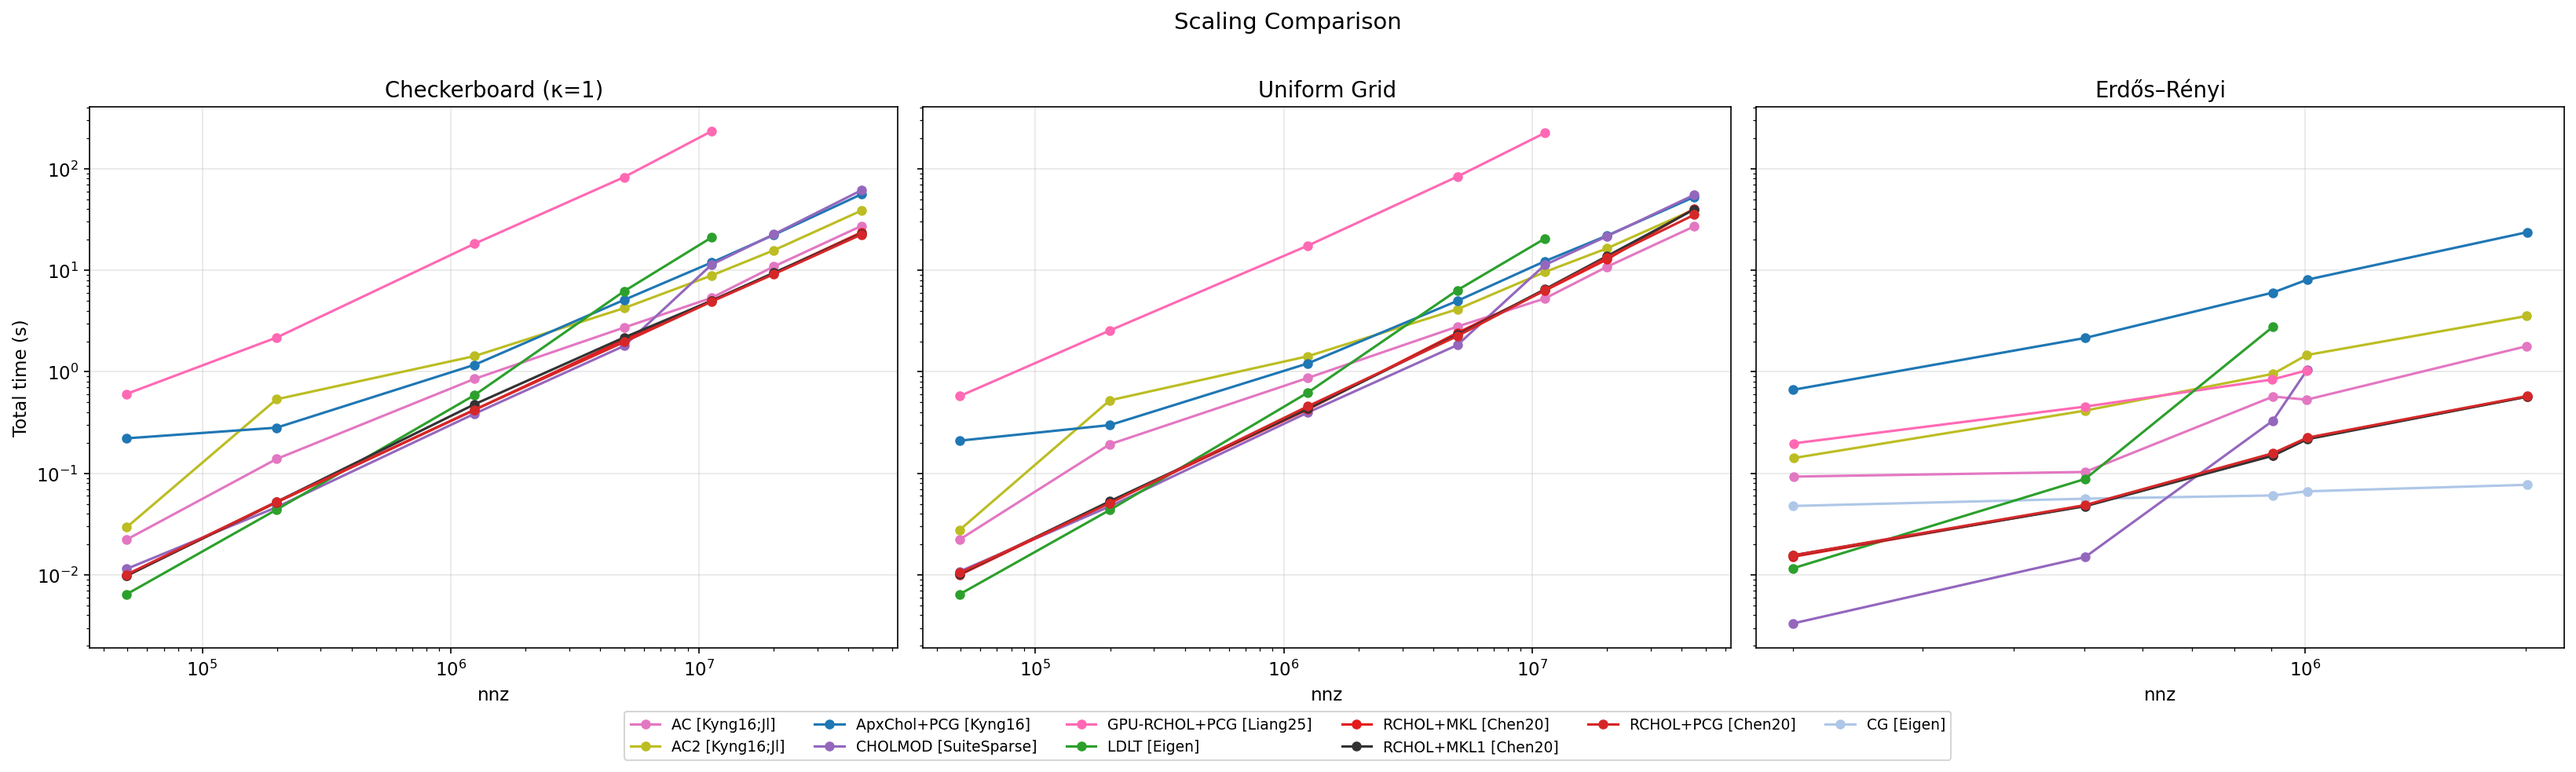
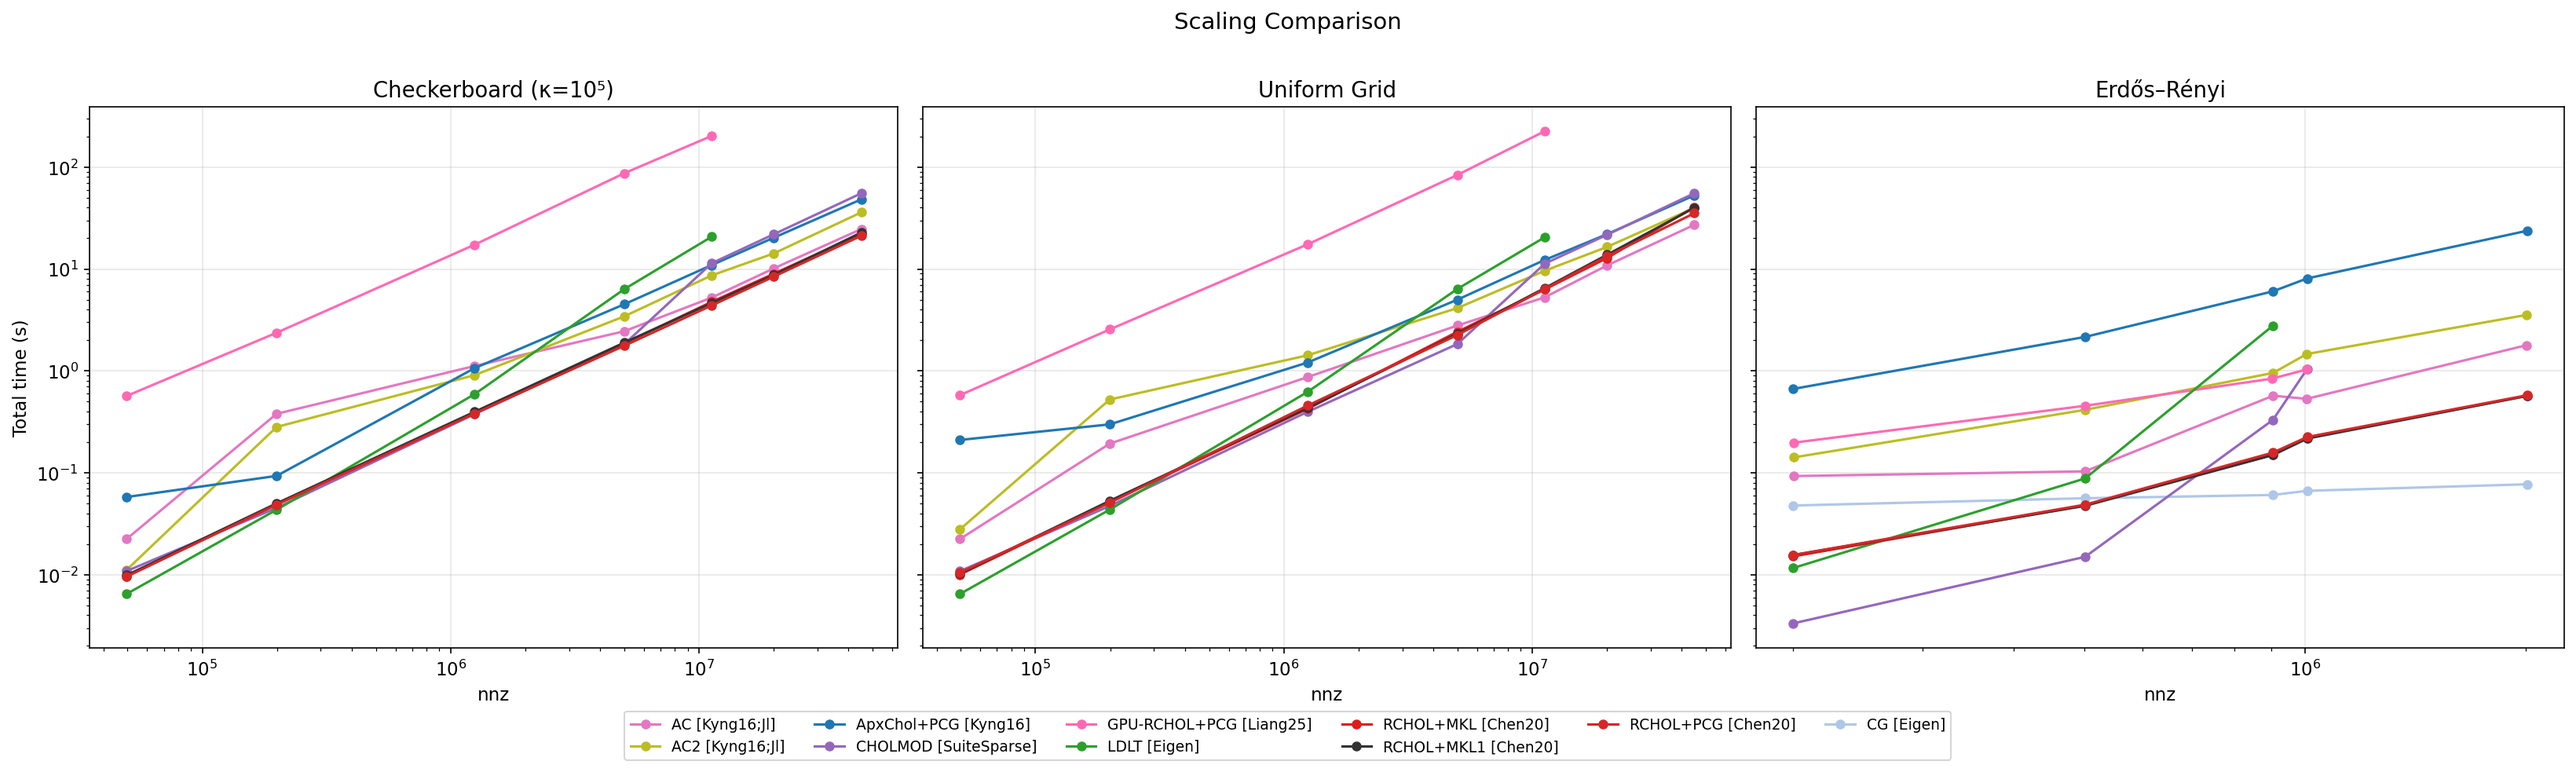
bench: replace checker κ=1 with grid/checker κ=10⁵ in plots & docs
- plot.py: bar_comparison, efficiency, residual now use grid data
  (checker κ=1 was identical to grid)
- plot.py: combined_scaling panel shows checker κ=10⁵ instead of κ=1
- README: add RCHOL+PCG, RCHOL+MKL1, AC to solver table
- README: update bench sets and solver lists
- README: fix all κ=1 references to κ=10⁵
- Regenerate all plots from merged 1121-row CSV

diff --git a/benchmarks/plot.py b/benchmarks/plot.py
@@ -97,10 +97,14 @@ def load_csv(paths):
     return df
 
 
-def _checker_k1_t4(df):
-    """Filter to checkerboard κ=1, tile=4 only (baseline kappa)."""
-    return df[df["graph"].str.contains("checker", na=False)
-              & df["graph"].str.match(r".*k1_t4$", na=False)].copy()
+def _grid(df):
+    """Filter to uniform grid graphs."""
+    return df[df["graph"].str.match(r"grid_\d+$", na=False)].copy()
+
+
+def _checker_k100000_t4(df):
+    """Filter to checkerboard κ=100000, tile=4."""
+    return df[df["graph"].str.match(r"checker_\d+_k100000_t4$", na=False)].copy()
 
 
 def _dedup_by_graph(df):
@@ -180,7 +184,7 @@ def _plot_bar_ax(ax, sub, title):
 
 
 def plot_bar_comparison(df, outdir):
-    sub = _checker_k1_t4(df)
+    sub = _grid(df)
     if sub.empty:
         return
     sub = sub[~sub["solver"].isin(BAR_EXCLUDE_SOLVERS)]
@@ -190,7 +194,7 @@ def plot_bar_comparison(df, outdir):
 
     fig, ax = plt.subplots(figsize=(11, max(4, len(sub) * 0.45)))
     _plot_bar_ax(ax, sub,
-                 f"Setup + Solve Breakdown \u2014 checker n={int(largest_n)}, \u03ba=1")
+                 f"Setup + Solve Breakdown \u2014 grid n={int(largest_n)}")
     ax.legend(["Setup", "Solve"], fontsize=9)
     save_fig(fig, outdir, "bar_comparison")
 
@@ -200,7 +204,7 @@ def plot_bar_comparison(df, outdir):
 # ══════════════════════════════════════════════════════
 
 def plot_residual(df, outdir):
-    sub = _checker_k1_t4(df)
+    sub = _grid(df)
     if sub.empty:
         return
     largest_n = sub["n"].max()
@@ -212,7 +216,7 @@ def plot_residual(df, outdir):
     colors = [solver_color(s) for s in sub["solver"]]
     ax.barh(sub["solver"], sub["rel_res"], color=colors)
     ax.set_xlabel("Relative residual ||Ax\u2212b||/||b||")
-    ax.set_title(f"Solution Accuracy \u2014 checker n={int(largest_n)}, \u03ba=1")
+    ax.set_title(f"Solution Accuracy \u2014 grid n={int(largest_n)}")
     ax.set_xscale("log")
     ax.axvline(1e-8, color="red", ls="--", alpha=0.5, label="tol=1e\u207b\u2078")
     ax.legend(fontsize=9)
@@ -224,7 +228,7 @@ def plot_residual(df, outdir):
 # ══════════════════════════════════════════════════════
 
 def plot_efficiency(df, outdir):
-    sub = _checker_k1_t4(df)
+    sub = _grid(df)
     # Exclude solvers that hit maxiter (non-convergence)
     sub = sub[~sub.apply(_hit_maxiter, axis=1)].copy()
     if sub.empty:
@@ -247,7 +251,7 @@ def plot_efficiency(df, outdir):
                          color=solver_color(solver), alpha=0.15)
     ax.set_xlabel("nnz")
     ax.set_ylabel("\u00b5s / nnz (median)")
-    ax.set_title("Efficiency \u2014 checker \u03ba=1 (median \u00b1 IQR)")
+    ax.set_title("Efficiency \u2014 grid (median \u00b1 IQR)")
     ax.set_xscale("log")
     ax.set_yscale("log")
     ax.legend(fontsize=8, ncol=2)
@@ -596,7 +600,7 @@ def plot_combined_scaling(df, outdir):
     # CG excluded from checker/grid (75% maxiter); kept in erdos (0% maxiter)
     no_cg = df[df["solver"] != "CG [Eigen]"]
     configs = [
-        (_checker_k1_t4(no_cg), "Checkerboard (\u03ba=1)"),
+        (_checker_k100000_t4(no_cg), "Checkerboard (\u03ba=10\u2075)"),
         (no_cg[no_cg["graph"].str.match(r"grid_\d+$", na=False)], "Uniform Grid"),
         (df[df["graph"].str.contains("erdos", na=False)], "Erd\u0151s\u2013R\u00e9nyi"),
     ]

diff --git a/benchmarks/README.md b/benchmarks/README.md
@@ -7,15 +7,18 @@ Comparative benchmarks for Laplacian/SDDM linear system solvers.
 | Solver | Type | Implementation | Source |
 |--------|------|----------------|--------|
 | **ApxChol+PCG [Kyng16]** | Approximate Cholesky preconditioner + PCG | Ours (C++) | `benchmarks/src/` |
+| **RCHOL+PCG [Chen20]** | Randomized Cholesky + PCG (Eigen) | [ut-padas/rchol](https://github.com/ut-padas/rchol) | FetchContent |
 | **RCHOL+MKL [Chen20]** | Randomized Cholesky + PCG (MKL sparse BLAS) | [ut-padas/rchol](https://github.com/ut-padas/rchol) + MKL | FetchContent |
+| **RCHOL+MKL1 [Chen20]** | RCHOL+MKL single-threaded | [ut-padas/rchol](https://github.com/ut-padas/rchol) + MKL | FetchContent |
 | **CG [Eigen]** | Conjugate gradient (diagonal precond.) | Eigen | — |
 | **LDLT [Eigen]** | Sparse direct LDL^T | Eigen | — |
 | **CHOLMOD [SuiteSparse]** | Supernodal sparse Cholesky (direct) | [SuiteSparse](https://people.engr.tamu.edu/davis/suitesparse.html) | System library |
 | **GPU-RCHOL+PCG [Liang25]** | GPU parallel RCHOL + PCG | [Tianyu-Liang/Parallel-Randomized-Cholesky](https://github.com/Tianyu-Liang/Parallel-Randomized-Cholesky) | FetchContent (CUDA) |
+| **AC [Kyng16;Jl]** | ApproxChol (Julia reference) | [Laplacians.jl](https://github.com/danspielman/Laplacians.jl) | `benchmarks/julia/` |
 | **AC2 [Kyng16;Jl]** | ApproxChol (Julia, augmented params) | [Laplacians.jl](https://github.com/danspielman/Laplacians.jl) | `benchmarks/julia/` |
 
 *Excluded*: AMG+CG [AMGCL] (broken on Laplacians), CG+ICC [Eigen] (hits iteration cap),
-pRCHOL+PCG (always worse than single-thread RCHOL), AC [Kyng16;Jl] (superseded by AC2).
+pRCHOL+PCG (always worse than single-thread RCHOL).
 
 ## Benchmark Protocol
 
@@ -23,10 +26,10 @@ Following [SDDM2023](https://arxiv.org/abs/2303.00709):
 
 - **Tolerance**: 1e-8 relative residual (‖Ax−b‖/‖b‖)
 - **Repetitions**: 3 runs, median taken
-- **Condition numbers**: κ ∈ {1, 100000}
+- **Condition numbers**: κ = 10⁵ (for checkerboard)
 - **Graph families**:
   - Grid Laplacians (uniform weights, up to 9M vertices)
-  - Checkerboard grids (κ=1, tile=4, up to 9M vertices)
+  - Checkerboard grids (κ=10⁵, tile=4, up to 9M vertices)
   - Erdős-Rényi random graphs (up to ~1M edges)
   - SDDM2023 suite: uniform grid, chimera, weighted chimera, Sachdeva star,
     anisotropic grid, weighted grid, checkered grid (parameter sweeps at nnz≈2M)
@@ -59,11 +62,11 @@ bash benchmarks/run.sh --quick --solver rchol_mkl,apxchol
 bash benchmarks/run.sh --bench erdos --append benchmarks/results/latest.csv
 
 # Individual solver via the binary
-benchmarks/build/benchmark --graph checkerboard --n 500 --kappa 1 --solver apxchol --csv --repeat 3
+benchmarks/build/benchmark --graph checkerboard --n 500 --kappa 100000 --solver apxchol --csv --repeat 3
 ```
 
-**Bench sets**: `grid`, `checker`, `erdos`, `julia`, `gpu`, `gpu_paper`, `sddm2023`, `mtx`
-**Solvers**: `apxchol`, `cg`, `ldlt`, `rchol_mkl`, `cholmod`, `amgcl`
+**Bench sets**: `grid`, `checker`, `erdos`, `tile`, `mtx`, `gpu_paper`, `sddm2023`
+**Solvers**: `apxchol`, `cg`, `ldlt`, `rchol`, `rchol_mkl`, `rchol_mkl1`, `cholmod`, `amgcl`, `ac`, `ac2`, `gpu_rchol`
 
 ## Results
 
@@ -79,7 +82,7 @@ PNG plots, **committed to the repo** so charts are visible on GitHub.
 
 ![Combined Scaling](latest/combined/combined_scaling.png)
 
-#### Efficiency (µs/nnz on checker κ=1)
+#### Efficiency (µs/nnz on grids)
 
 ![Efficiency](latest/comparison/efficiency.png)
 
@@ -102,7 +105,7 @@ PNG plots, **committed to the repo** so charts are visible on GitHub.
 ### All Generated Charts
 
 **Comparison** (`latest/comparison/`):
-- `bar_comparison.png` — Setup/solve time breakdown at largest checker size
+- `bar_comparison.png` — Setup/solve time breakdown at largest grid size
 - `efficiency.png` — µs per nonzero scaling (median ± IQR)
 - `residual.png` — Solution accuracy with tol=1e-8 reference line
 
@@ -157,17 +160,8 @@ Preconditioners" ([arXiv:2505.02977](https://arxiv.org/abs/2505.02977)).
   and ecology matrices.
 
 <!-- BENCHMARK_RESULTS_START -->
-*Last updated: 2026-03-12 20:39:59*
+*Last updated: 2026-03-12 21:45:57*
 
-### Checkerboard Grid (n=9,000,000, κ=1, tile=4)
 
-| Solver | Setup | Solve | Total | Iters | Rel. Residual | µs/nnz |
-|--------|-------|-------|-------|------:|---------------|-------:|
-| RCHOL+PCG [Chen20] | 6.87s | 15.61s | 22.48s | 54 | 1.0e-08 | 0.50 |
-| RCHOL+MKL1 [Chen20] | 7.62s | 15.21s | 22.83s | 53 | 9.1e-09 | 0.51 |
-| RCHOL+MKL [Chen20] | 7.67s | 15.90s | 23.58s | 54 | 9.5e-09 | 0.52 |
-| AC2 [Kyng16;Jl] | 23.40s | 15.24s | 38.64s | 0 | 8.5e-09 | 0.86 |
-| ApxChol+PCG [Kyng16] | 40.17s | 15.83s | 56.01s | 55 | 9.0e-09 | 1.24 |
-| CHOLMOD [SuiteSparse] | 57.52s | 3.74s | 61.26s | 1 | 1.2e-16 | 1.36 |
 
 <!-- BENCHMARK_RESULTS_END -->
